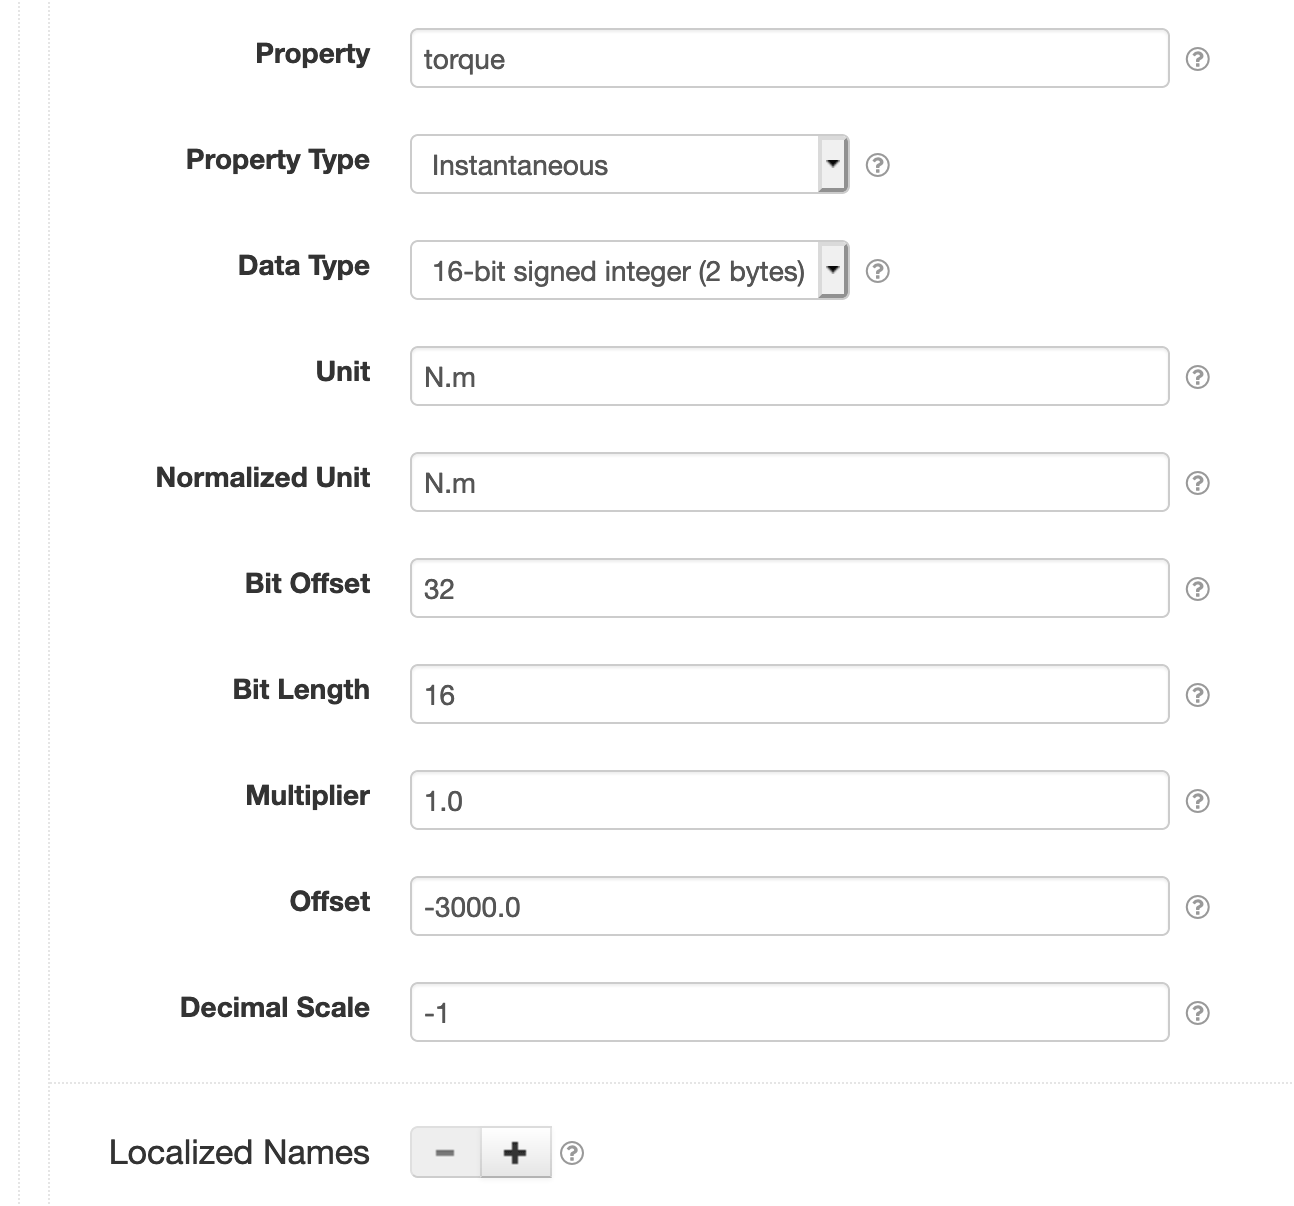
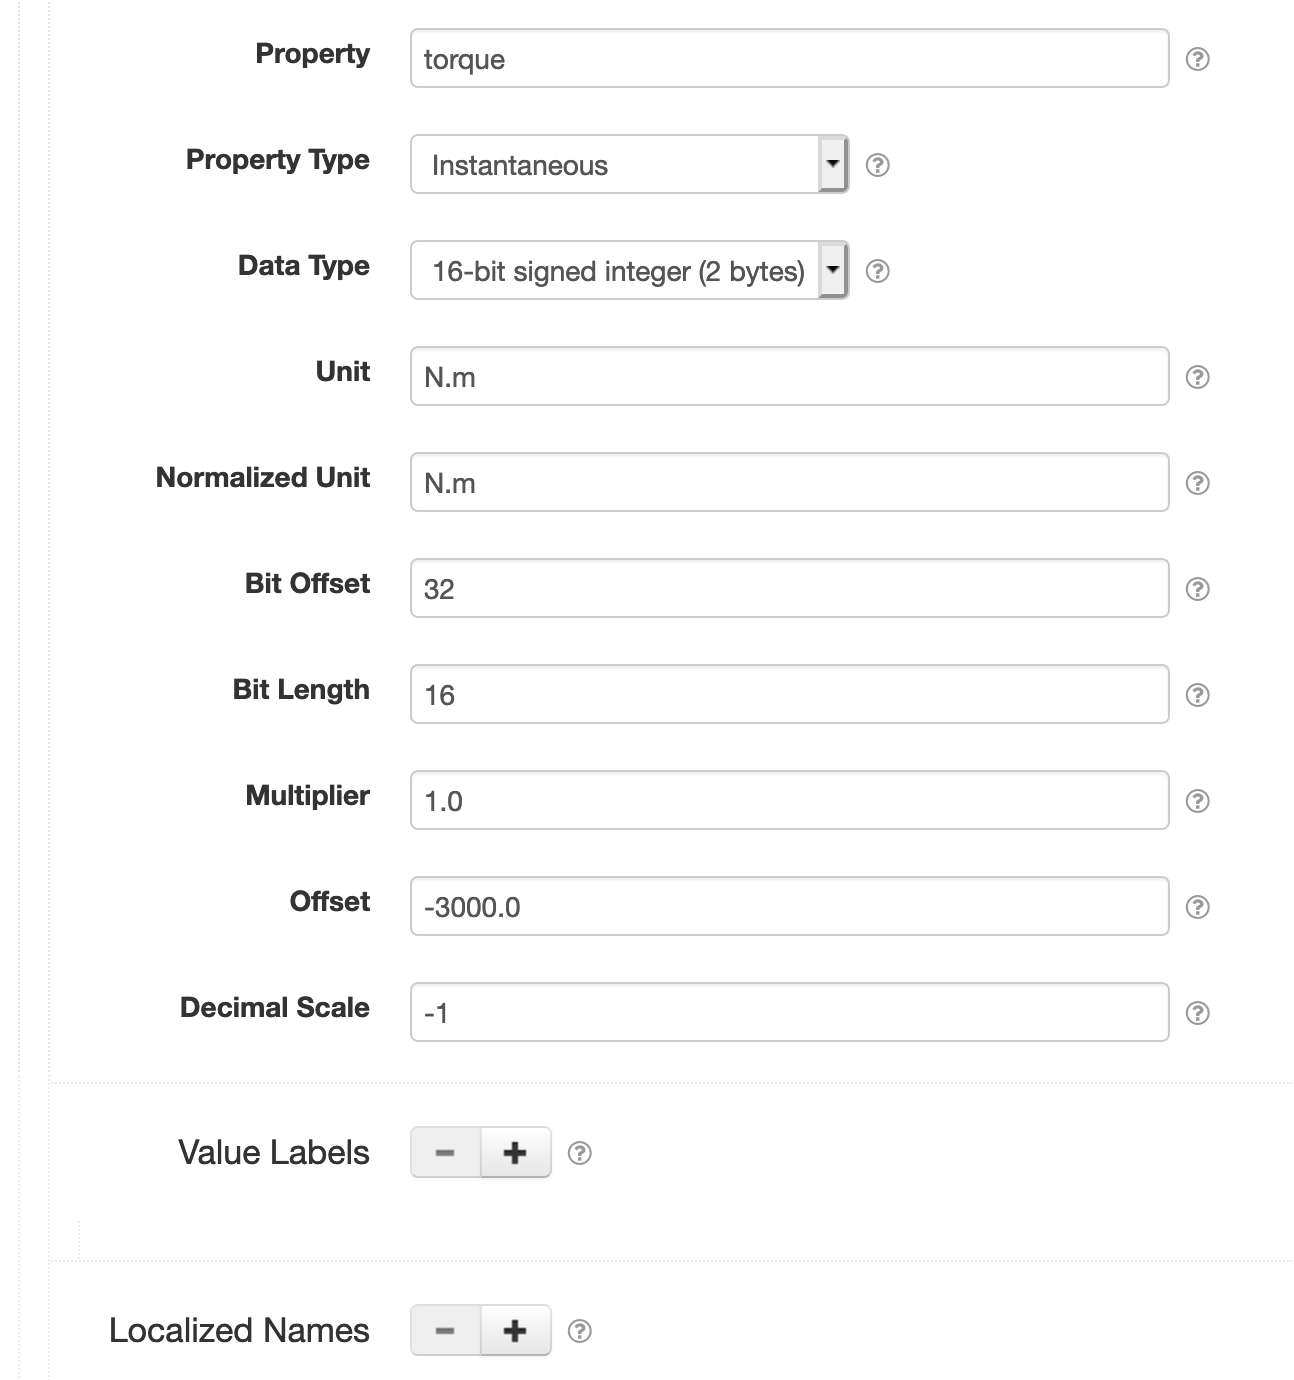
Add support for KCD value labels mapping to datum properties.

diff --git a/net.solarnetwork.node.datum.canbus/src/net/solarnetwork/node/datum/canbus/CanbusPropertyConfig.java b/net.solarnetwork.node.datum.canbus/src/net/solarnetwork/node/datum/canbus/CanbusPropertyConfig.java
@@ -53,7 +53,7 @@ import net.solarnetwork.util.ArrayUtils;
  * </p>
  * 
  * @author matt
- * @version 1.0
+ * @version 1.1
  */
 public class CanbusPropertyConfig extends NumberDatumSamplePropertyConfig<Integer>
 		implements CanbusSignalReference {
@@ -74,6 +74,7 @@ public class CanbusPropertyConfig extends NumberDatumSamplePropertyConfig<Intege
 	private String normalizedUnit;
 	private int bitLength = DEFAULT_BIT_LENGTH;
 	private KeyValuePair[] localizedNames;
+	private KeyValuePair[] valueLabels;
 
 	/**
 	 * Default constructor.
@@ -169,6 +170,25 @@ public class CanbusPropertyConfig extends NumberDatumSamplePropertyConfig<Intege
 		results.add(new BasicTextFieldSettingSpecifier(prefix + "decimalScale",
 				String.valueOf(DEFAULT_DECIMAL_SCALE)));
 
+		// value labels list
+		KeyValuePair[] labels = getValueLabels();
+		List<KeyValuePair> labelsList = (labels != null ? Arrays.asList(labels)
+				: Collections.<KeyValuePair> emptyList());
+		results.add(SettingsUtil.dynamicListSettingSpecifier(prefix + "valueLabels", labelsList,
+				new SettingsUtil.KeyedListCallback<KeyValuePair>() {
+
+					@Override
+					public Collection<SettingSpecifier> mapListSettingKey(KeyValuePair value, int index,
+							String key) {
+						List<SettingSpecifier> labelSettings = new ArrayList<>(2);
+						labelSettings.add(new BasicTextFieldSettingSpecifier(key + ".key", ""));
+						labelSettings.add(new BasicTextFieldSettingSpecifier(key + ".value", ""));
+						BasicGroupSettingSpecifier configGroup = new BasicGroupSettingSpecifier(
+								labelSettings);
+						return Collections.<SettingSpecifier> singletonList(configGroup);
+					}
+				}));
+
 		// localized names list
 		KeyValuePair[] names = getLocalizedNames();
 		List<KeyValuePair> namesList = (names != null ? Arrays.asList(names)
@@ -227,8 +247,19 @@ public class CanbusPropertyConfig extends NumberDatumSamplePropertyConfig<Intege
 		settings.add(new SettingValueBean(providerId, instanceId, prefix + "decimalScale",
 				String.valueOf(getDecimalScale())));
 
+		KeyValuePair[] labels = getValueLabels();
+		int len = (labels != null ? labels.length : 0);
+		settings.add(new SettingValueBean(providerId, instanceId, prefix + "valueLabelsCount",
+				String.valueOf(len)));
+		for ( int i = 0; i < len; i++ ) {
+			settings.add(new SettingValueBean(providerId, instanceId,
+					prefix + "valueLabels[" + i + "].key", labels[i].getKey()));
+			settings.add(new SettingValueBean(providerId, instanceId,
+					prefix + "valueLabels[" + i + "].value", labels[i].getValue()));
+		}
+
 		KeyValuePair[] names = getLocalizedNames();
-		int len = (names != null ? names.length : 0);
+		len = (names != null ? names.length : 0);
 		settings.add(new SettingValueBean(providerId, instanceId, prefix + "localizedNamesCount",
 				String.valueOf(len)));
 		for ( int i = 0; i < len; i++ ) {
@@ -439,7 +470,7 @@ public class CanbusPropertyConfig extends NumberDatumSamplePropertyConfig<Intege
 	 * @return the number of {@code localizedNames} elements
 	 */
 	public int getLocalizedNamesCount() {
-		KeyValuePair[] names = this.localizedNames;
+		KeyValuePair[] names = getLocalizedNames();
 		return (names == null ? 0 : names.length);
 	}
 
@@ -455,8 +486,8 @@ public class CanbusPropertyConfig extends NumberDatumSamplePropertyConfig<Intege
 	 *        The desired number of {@code localizedNames} elements.
 	 */
 	public void setLocalizedNamesCount(int count) {
-		this.localizedNames = ArrayUtils.arrayWithLength(this.localizedNames, count, KeyValuePair.class,
-				null);
+		setLocalizedNames(
+				ArrayUtils.arrayWithLength(this.localizedNames, count, KeyValuePair.class, null));
 	}
 
 	/**
@@ -501,6 +532,115 @@ public class CanbusPropertyConfig extends NumberDatumSamplePropertyConfig<Intege
 	 */
 	public void setParent(CanbusMessageConfig parent) {
 		this.parent = parent;
+	}
+
+	/**
+	 * Get the value labels.
+	 * 
+	 * <p>
+	 * The {@code key} of each pair is a value. The {@code value} is the
+	 * associated label to use for that value.
+	 * </p>
+	 * 
+	 * @return the labels
+	 * @since 1.1
+	 */
+	public KeyValuePair[] getValueLabels() {
+		return valueLabels;
+	}
+
+	/**
+	 * Set the value labels.
+	 * 
+	 * @param valueLabels
+	 *        the labels to use
+	 * @since 1.1
+	 */
+	public void setValueLabels(KeyValuePair[] valueLabels) {
+		this.valueLabels = valueLabels;
+	}
+
+	/**
+	 * Get the number of configured {@code valueLables} elements.
+	 * 
+	 * @return the number of {@code valueLables} elements
+	 * @since 1.1
+	 */
+	public int getValueLabelsCount() {
+		KeyValuePair[] labels = getValueLabels();
+		return (labels == null ? 0 : labels.length);
+	}
+
+	/**
+	 * Adjust the number of configured {@code valueLables} elements.
+	 * 
+	 * <p>
+	 * Any newly added element values will be set to new {@link KeyValuePair}
+	 * instances.
+	 * </p>
+	 * 
+	 * @param count
+	 *        The desired number of {@code valueLables} elements.
+	 * @since 1.1
+	 */
+	public void setValueLabelsCount(int count) {
+		setValueLabels(ArrayUtils.arrayWithLength(getValueLabels(), count, KeyValuePair.class, null));
+	}
+
+	/**
+	 * Get a mapping of values with associated labels.
+	 * 
+	 * <p>
+	 * This turns the {@code valueLabels} array into a {@code Map} of values
+	 * with associated labels. Duplicate values are ignored.
+	 * </p>
+	 * 
+	 * @return a mapping of value labels, never {@literal null}
+	 */
+	public Map<String, String> getValueLabelsMap() {
+		KeyValuePair[] names = getValueLabels();
+		if ( names == null || names.length < 1 ) {
+			return Collections.emptyMap();
+		}
+		return Arrays.stream(names)
+				.collect(toMap(KeyValuePair::getKey, KeyValuePair::getValue, (l, r) -> l));
+	}
+
+	/**
+	 * Store a value label mapping.
+	 * 
+	 * <p>
+	 * No mapping will be stored if either {@code value} or {@code label} are
+	 * {@literal null}.
+	 * </p>
+	 * 
+	 * @param value
+	 *        the value
+	 * @param label
+	 *        the label
+	 * @since 1.1
+	 */
+	public void putValueLabel(Object value, String label) {
+		if ( value == null || label == null ) {
+			return;
+		}
+		KeyValuePair[] labels = getValueLabels();
+		String valueString = value.toString();
+		if ( labels != null ) {
+			for ( KeyValuePair kv : labels ) {
+				if ( valueString.equals(kv.getKey()) ) {
+					kv.setValue(label);
+					return;
+				}
+			}
+		}
+		KeyValuePair[] newLabels = new KeyValuePair[(labels != null ? labels.length : 0) + 1];
+		if ( labels != null ) {
+			System.arraycopy(labels, 0, newLabels, 0, labels.length);
+		}
+		KeyValuePair kv = new KeyValuePair(valueString, label);
+		newLabels[newLabels.length - 1] = kv;
+		setValueLabels(newLabels);
 	}
 
 }

diff --git a/net.solarnetwork.node.datum.canbus/src/net/solarnetwork/node/datum/canbus/KcdConfigurer.java b/net.solarnetwork.node.datum.canbus/src/net/solarnetwork/node/datum/canbus/KcdConfigurer.java
@@ -25,6 +25,7 @@ package net.solarnetwork.node.datum.canbus;
 import static java.util.Arrays.asList;
 import java.io.IOException;
 import java.math.BigDecimal;
+import java.math.BigInteger;
 import java.util.ArrayList;
 import java.util.LinkedHashMap;
 import java.util.LinkedHashSet;
@@ -40,7 +41,11 @@ import net.solarnetwork.domain.ByteOrdering;
 import net.solarnetwork.domain.GeneralDatumSamplesType;
 import net.solarnetwork.domain.KeyValuePair;
 import net.solarnetwork.node.io.canbus.KcdParser;
+import net.solarnetwork.node.io.canbus.kcd.BasicLabelType;
 import net.solarnetwork.node.io.canbus.kcd.BusType;
+import net.solarnetwork.node.io.canbus.kcd.LabelGroupType;
+import net.solarnetwork.node.io.canbus.kcd.LabelSetType;
+import net.solarnetwork.node.io.canbus.kcd.LabelType;
 import net.solarnetwork.node.io.canbus.kcd.MessageType;
 import net.solarnetwork.node.io.canbus.kcd.NetworkDefinitionType;
 import net.solarnetwork.node.io.canbus.kcd.NodeRefType;
@@ -67,7 +72,7 @@ import net.solarnetwork.util.StringUtils;
  * resource.
  * 
  * @author matt
- * @version 1.0
+ * @version 1.1
  */
 public class KcdConfigurer extends BaseIdentifiable
 		implements SettingSpecifierProvider, SettingResourceHandler {
@@ -384,6 +389,24 @@ public class KcdConfigurer extends BaseIdentifiable
 								propConfig.setDataType(BitDataType.Float32);
 							} else if ( "double".equalsIgnoreCase(val.getType()) ) {
 								propConfig.setDataType(BitDataType.Float64);
+							}
+
+							LabelSetType labelSet = signal.getLabelSet();
+							if ( labelSet != null && labelSet.getLabelOrLabelGroup() != null ) {
+								for ( BasicLabelType label : labelSet.getLabelOrLabelGroup() ) {
+									if ( label instanceof LabelGroupType ) {
+										LabelGroupType group = (LabelGroupType) label;
+										BigInteger k = group.getFrom();
+										BigInteger to = group.getTo();
+										while ( k.compareTo(to) <= 0 ) {
+											propConfig.putValueLabel(k, group.getName());
+											k = k.add(BigInteger.ONE);
+										}
+									} else if ( label instanceof LabelType ) {
+										LabelType l = (LabelType) label;
+										propConfig.putValueLabel(l.getValue(), l.getName());
+									}
+								}
 							}
 
 							KeyValuePair[] names = signal.getLocalizedName().stream()

diff --git a/net.solarnetwork.node.datum.canbus/src/net/solarnetwork/node/datum/canbus/CanbusDatumDataSource.java b/net.solarnetwork.node.datum.canbus/src/net/solarnetwork/node/datum/canbus/CanbusDatumDataSource.java
@@ -43,6 +43,7 @@ import javax.measure.Unit;
 import net.solarnetwork.domain.BitDataType;
 import net.solarnetwork.domain.GeneralDatumMetadata;
 import net.solarnetwork.domain.GeneralDatumSamplesType;
+import net.solarnetwork.domain.KeyValuePair;
 import net.solarnetwork.node.DatumDataSource;
 import net.solarnetwork.node.domain.GeneralNodeDatum;
 import net.solarnetwork.node.io.canbus.CanbusData;
@@ -167,6 +168,18 @@ public class CanbusDatumDataSource extends CanbusDatumDataSourceSupport
 								e);
 					}
 					if ( propVal != null ) {
+						// populate "xLabel" property if value label matches prop value
+						KeyValuePair[] valueLabels = prop.getValueLabels();
+						if ( valueLabels != null && valueLabels.length > 0 ) {
+							String propValString = propVal.toString();
+							for ( int i = 0; i < valueLabels.length; i++ ) {
+								KeyValuePair valueLabel = valueLabels[i];
+								if ( propValString.equals(valueLabel.getKey()) ) {
+									d.putStatusSampleValue(propName + "Label", valueLabel.getValue());
+									break;
+								}
+							}
+						}
 						if ( propVal instanceof Number ) {
 							propVal = prop.applyTransformations((Number) propVal);
 							propVal = normalizedAmountValue((Number) propVal, prop.getUnit(),

diff --git a/net.solarnetwork.node.datum.canbus/README.md b/net.solarnetwork.node.datum.canbus/README.md
@@ -131,7 +131,27 @@ Each property configuration contains the following overall settings:
 | Multiplier      | A multiplication factor to transform data values into normalized units. In CAN this is often referred to as the **slope**, represented by `m` in the linear equation `y = mx + b`. Set to `1` for no multiplier. |
 | Offset          | An offset to transform data values into normalized units. This is applied **after** the **Multiplier**, represented by `b` in the linear equation `y = mx + b`. Set to `0` for no offset. |
 | Decimal Scale   | A maximum scale (number of digits after the decimal point) to round decimal values to. This is applied after all transforms. Set to `0` to round to whole numbers. Set to `-1` to disable rounding. |
+| Value Labels    | An optional list of labels to associate with specific property values. |
 | Localized Names | An optional list of localized names to publish with the metadata for the device. |
+
+## Value labels
+
+Value labels allow you to configure descriptive labels with specific property values. When 
+configured, SolarNode will generate an extra status datum property named like **Property** with
+`Label` appended. For example, here are two value labels configured for values `0` and `1`
+with labels `Normal` and `Broken`, respectively:
+
+![Value label settings](#docs/solarnode-canbus-device-message-property-value-label-settings.png)
+
+Assuming the associated **Property** setting is configured as `state`, then when the captured
+property value matches `1` a `stateLabel` property would also be populated with a value `Broken`:
+
+```json
+{
+  "state"      : 1,
+  "stateLabel" : "Broken"
+}
+```
 
 # Datum metadata
 
